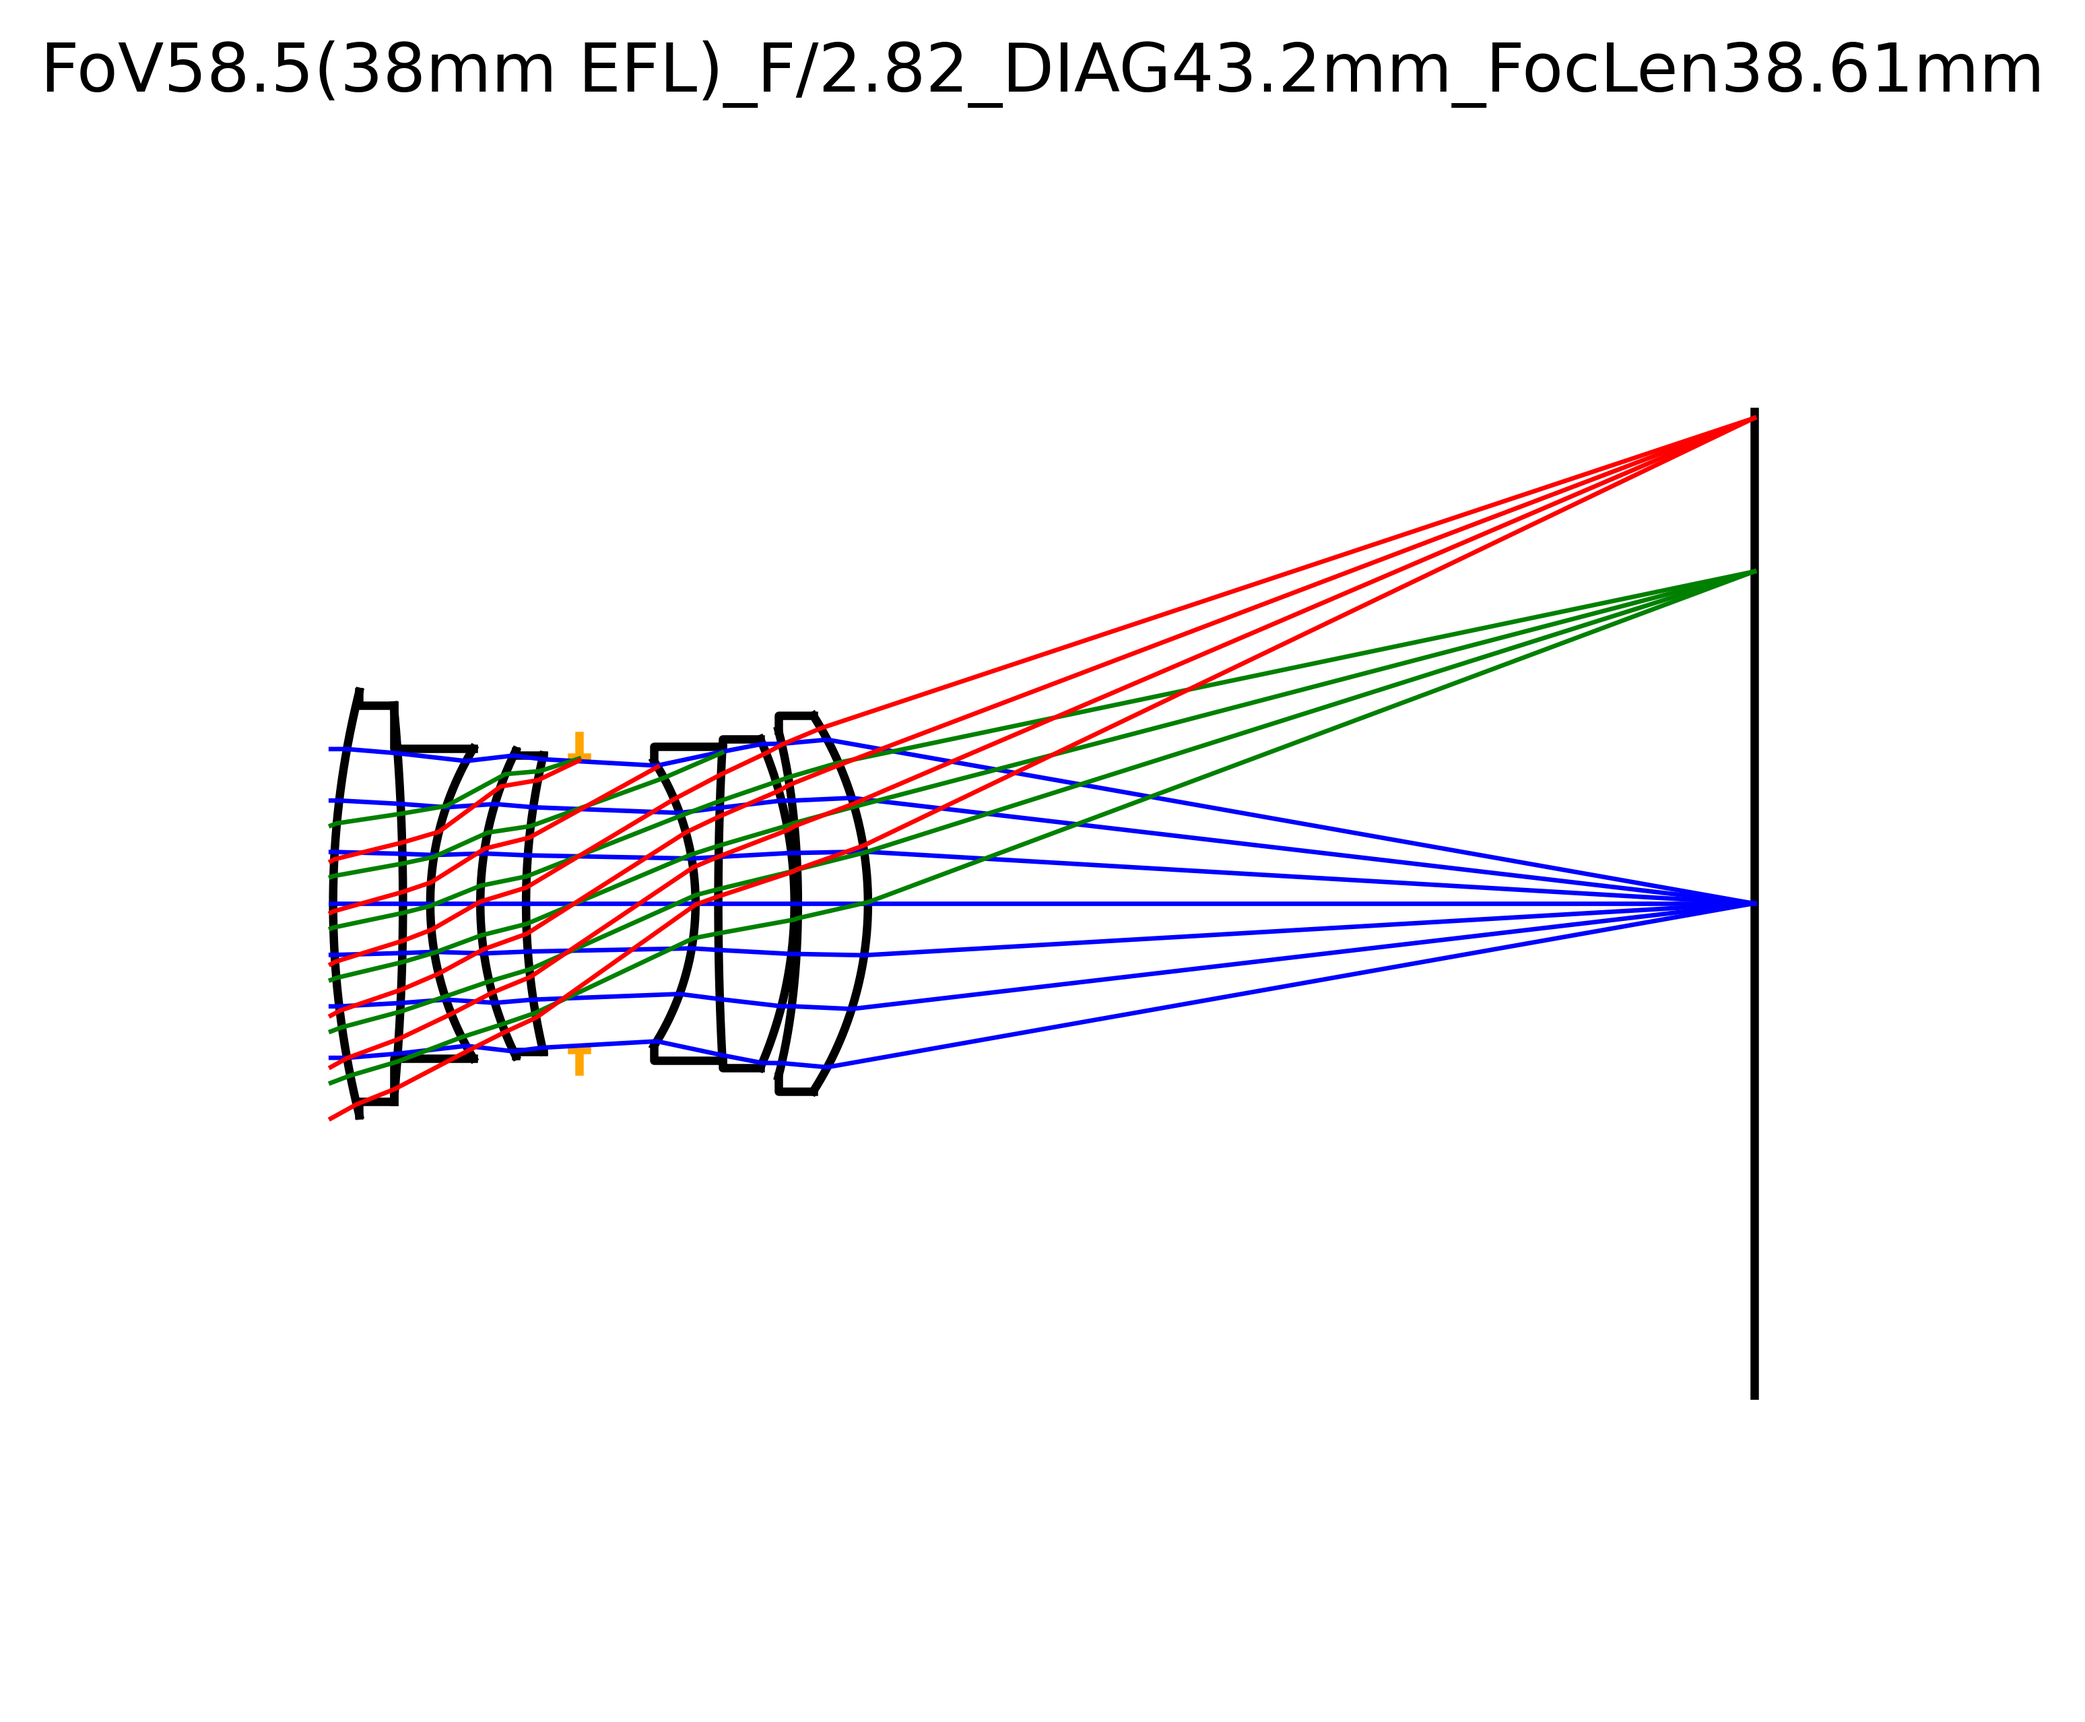
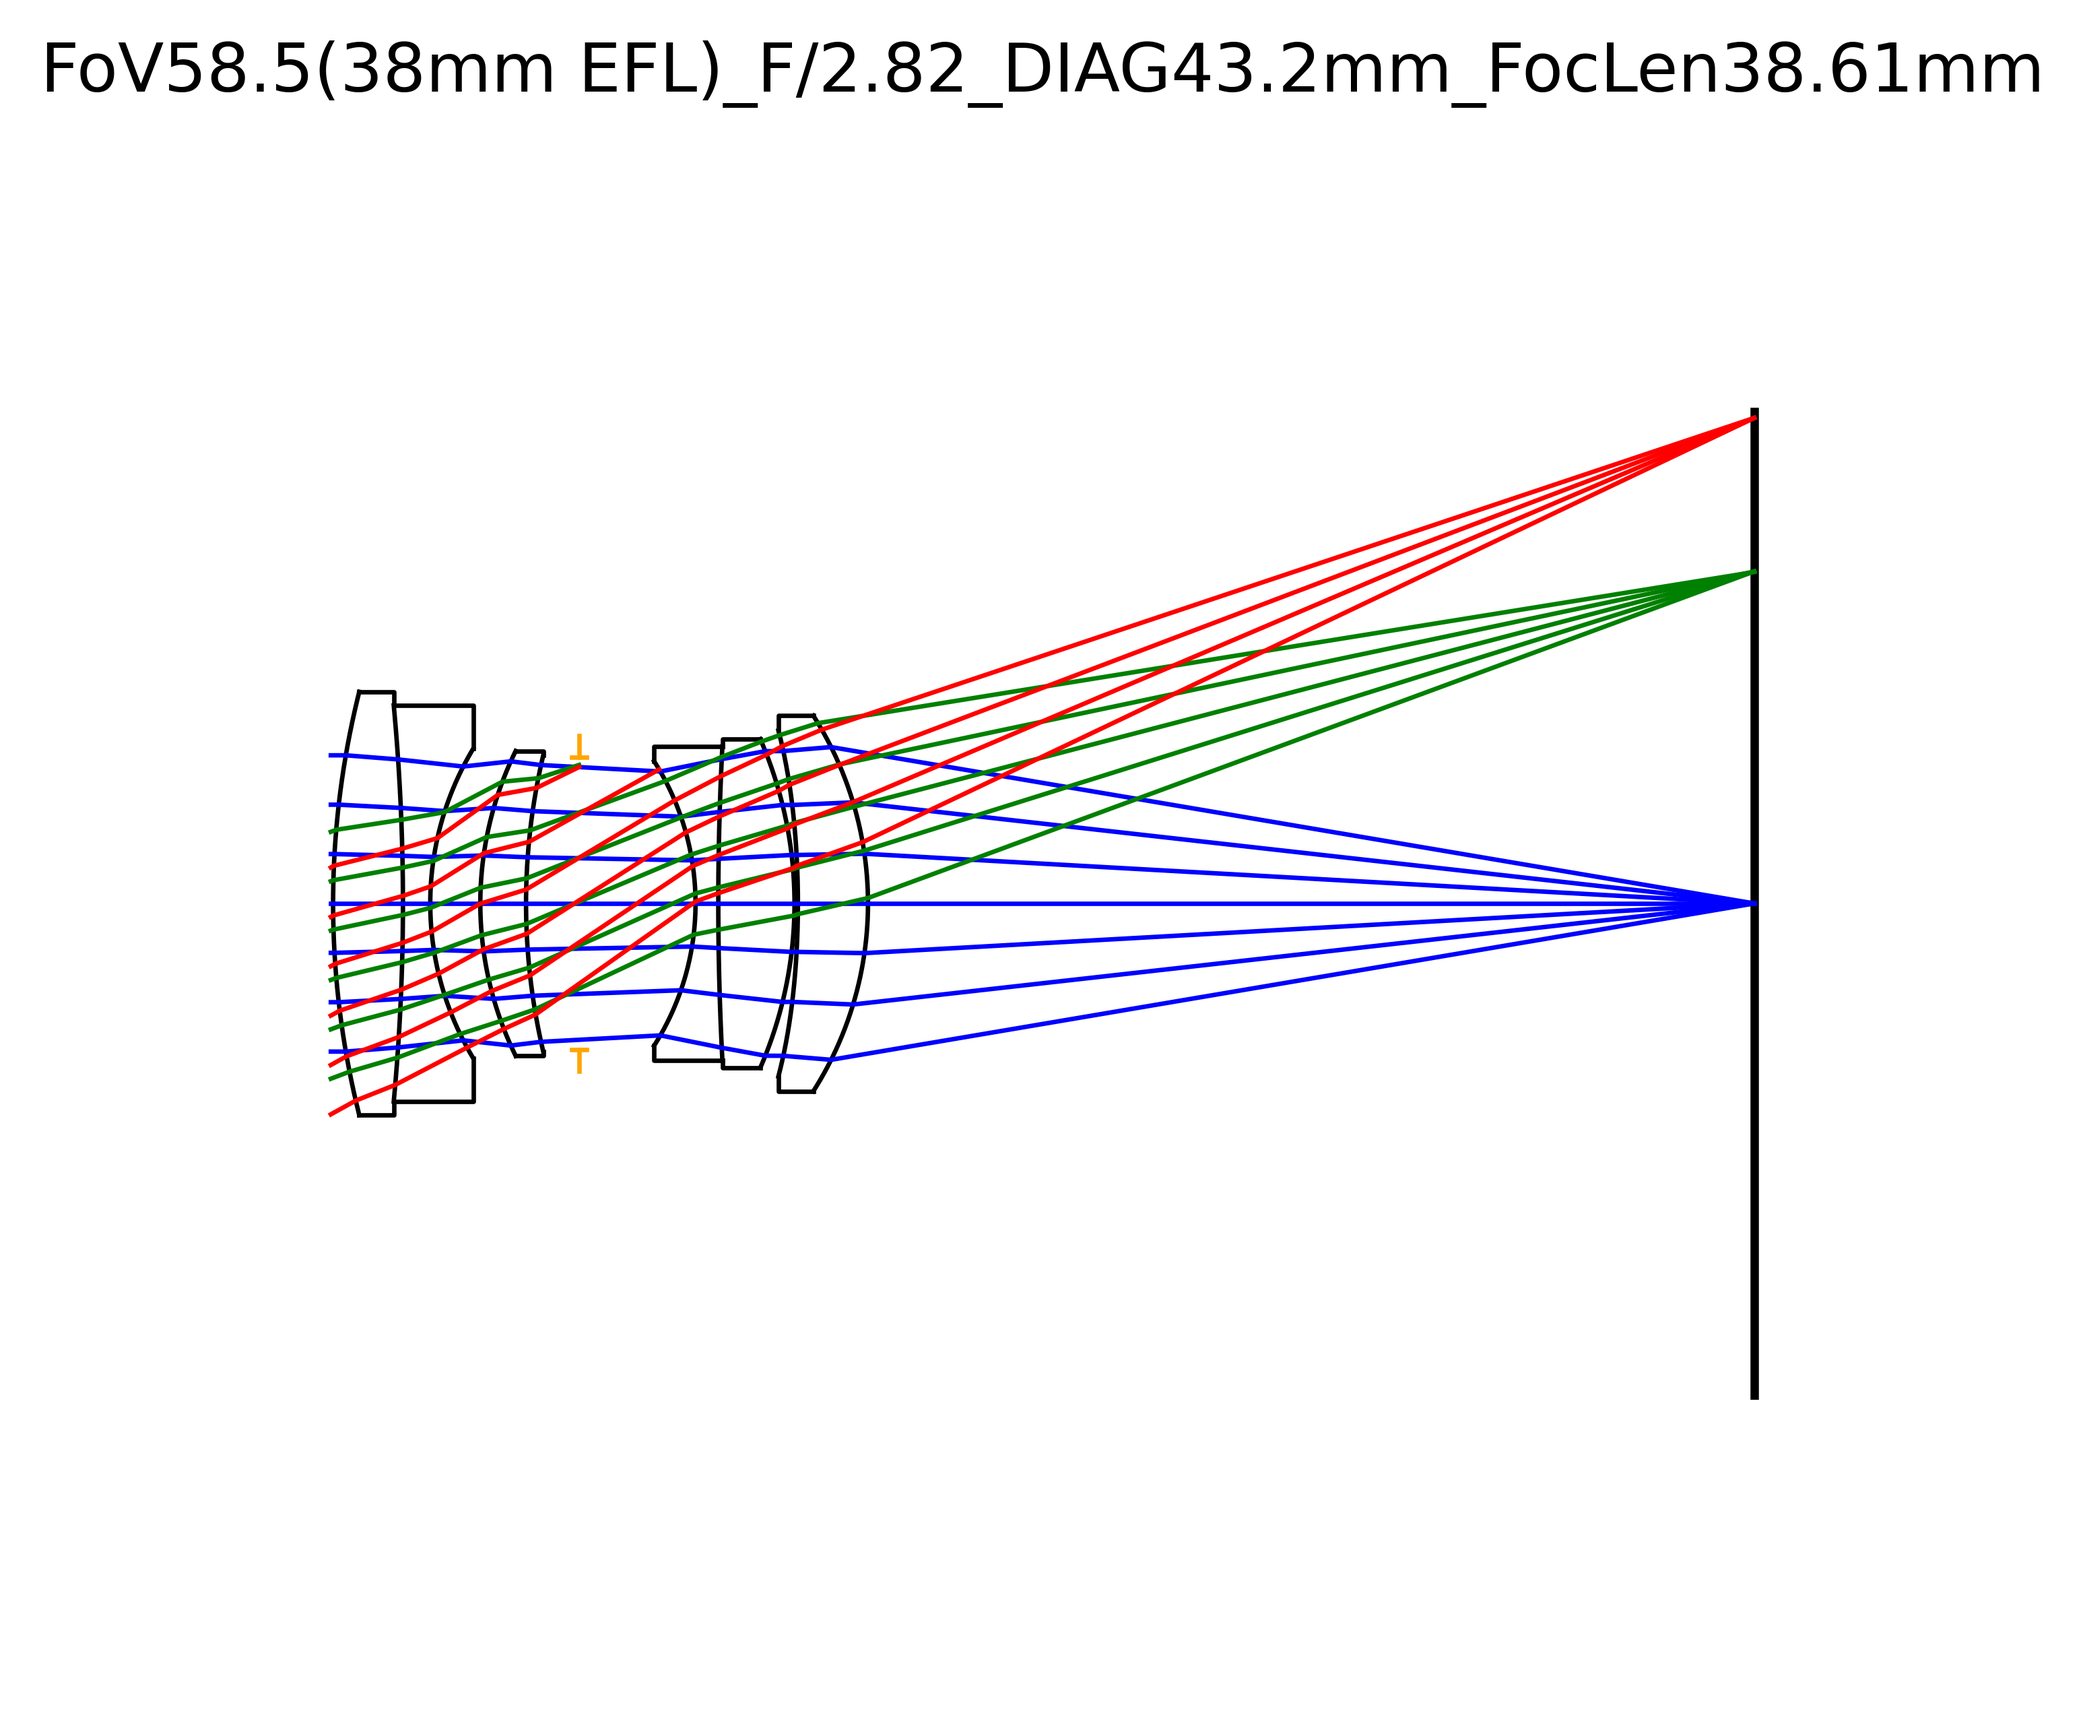
[new] glasses

Changed region(s): [[0.155, 0.3091, 0.8062, 0.6491], [0.7132, 0.2782, 0.7442, 0.3091]]

diff --git a/deeplens/basics.py b/deeplens/basics.py
@@ -97,6 +97,11 @@ MATERIAL_TABLE = {
     "d-zk3":        [1.5891,   61.15],
     "h-zf2":        [1.6727,   32.17],
     "h-lak51":      [1.6968,   55.53],
+    "s-lah55vs":    [1.8348,   42.74],
+    "s-til6":       [1.5317,   48.84],
+    "s-lal14":      [1.6968,   55.53],
+    "s-tim35":      [1.6989,   30.13],
+    "s-bal42":      [1.5831,   59.37],
     
     "flint":        [1.6200,   36.37],
     "pmma":         [1.491756, 58.00],
@@ -132,12 +137,18 @@ SELLMEIER_TABLE = {
     # https://www.pgo-online.com/intl/B270.html
     
     # https://refractiveindex.info, nd at 589.3 [nm]
-    "d-k59":        [1.1209, 6.5791e-3, 1.5269e-1, 2.3572e-2, 1.0750000, 1.0631e2],
-    'hk51':         [0.9602, 116.24248, 1.1836896, 0.0118030, 0.1023382, 0.018958],
-    "d-zk3":        [1.3394, 0.0076061, 0.1486902, 0.0238444, 1.0095403, 89.04198],
-    "h-zf2":        [0.1676, 0.0605178, 1.5433507, 0.0118524, 1.1731312, 113.6711],
-    "h-lak51":      [1.1875, 0.0158001, 0.6393986, 5.6713e-5, 1.2654535, 91.09705],
+    "d-k59":        [1.1209, 6.5791e-3, 1.5269e-1,  2.3572e-2, 1.0750000,  1.0631e2],
+    'hk51':         [0.9602, 116.24248, 1.1836896,  0.0118030, 0.1023382, -0.018958],
+    "d-zk3":        [1.3394, 0.0076061, 0.1486902,  0.0238444, 1.0095403,  89.04198],
+    "h-zf2":        [0.1676, 0.0605178, 1.5433507,  0.0118524, 1.1731312,  113.6711],
+    "h-lak51":      [1.1875, 0.0158001, 0.6393986,  5.6713e-5, 1.2654535,  91.09705],
+    "s-lah55vs":    [1.9259, 0.0096115, 0.3489535,  0.0365133, 1.4223074,  103.3641],
+    "s-til6":       [1.1770, 0.0077109, 0.1279580,  0.0411325, 1.3474012,  154.5319],
+    "s-lal14":      [1.2372, 0.0153551, 0.5897226, -0.0003079, 1.3192188,  93.72030],
+    "s-tim35":      [1.5585, 0.0115367, 0.2307670,  0.0586096, 1.8443610,  162.9819],
+    "s-bal42":      [1.3957, 0.0112219, 0.0718505, -0.0252117, 1.2712927,  134.4979],
 }
+
 
 
 SCHOTT_TABLE = {
